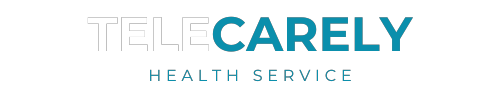
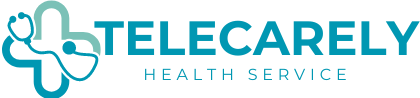
final changes

Changed region(s): [[0.0, 0.0, 1.0, 1.0], [0.2786, 0.6875, 0.8357, 0.8438]]

diff --git a/public/css/navbar.css b/public/css/navbar.css
@@ -8,7 +8,8 @@
     background-color: white;
 }
 .header-area .logo img {
-    width: 300px;
+    width: 220px;
+    margin-left: 40px;
 }
 .header-area .links {
     list-style: none;

diff --git a/public/css/login.css b/public/css/login.css
@@ -75,7 +75,6 @@ p {
 a {
     color: var(--blue);
     text-decoration: none;
-    font-weight: bold;
     transition: color 0.3s;
 }
 

diff --git a/public/css/signup.css b/public/css/signup.css
@@ -81,7 +81,6 @@ p {
 a {
     color: var(--blue);
     text-decoration: none;
-    font-weight: bold;
     transition: color 0.3s;
 }
 

diff --git a/app/Http/Controllers/PatientController.php b/app/Http/Controllers/PatientController.php
@@ -9,10 +9,9 @@ class PatientController extends Controller
 {
     function showDashboard()
     {
-        $patientCount = DB::select('SELECT COUNT(id) as patientCount FROM users WHERE role = ? ', ['patient']);
-        if (!empty($patientCount)) {
-            session([
-                'patientCount' => $patientCount[0]->patientCount
+        $doctorCounts = DB::select('SELECT COUNT(id) as doctorCount FROM users WHERE role = ? ', ['doctor']);
+        if (!empty($doctorCounts)) {
+            session(['doctorCount' => $doctorCounts[0]->doctorCount
             ]);
         }
         // select number of doctor
@@ -28,7 +27,6 @@ class PatientController extends Controller
     function showAllDoctors()
     {
         $results = DB::select('SELECT `id`,`name`, `specialty`, `email`, `phone` FROM USERS WHERE role = ?', ['doctor']);
-
         if (empty($results)) {
             return back()->with([
                 'error' => 'Doctors Not found',
@@ -37,16 +35,13 @@ class PatientController extends Controller
             return view('pages.patients.all_doctors')->with('doctors', $results);
         }
     }
-
     function showPrescription()
     {
         $results = DB::select('SELECT * FROM prescriptions WHERE patient_id = ?', [session('user')->id]);
-
         $doctorIds = [];
         foreach ($results as $result) {
             $doctorIds[] = $result->doctor_id;
         }
-
         $doctorNames = [];
         foreach ($doctorIds as $doctorId) {
             $doctor = DB::select('SELECT * FROM users WHERE id = ?', [$doctorId]);

diff --git a/app/Http/Controllers/UsersController.php b/app/Http/Controllers/UsersController.php
@@ -66,11 +66,11 @@ class UsersController extends Controller
 
         // check the validation of the data
         $request->validate([
-            'name' => 'required',
+            'name' => 'required|min:4',
             'email' => 'required|email|unique:users', // check this you didn't make it yet.....
-            'password' => 'required|confirmed',
-            'age' => 'required',
-            'phone' => 'required'
+            'password' => 'required|confirmed|min:8',
+            'age' => 'required|numeric',
+            'phone' => 'required|numeric|min:11'
         ]);
         // insert data to db -> users
         DB::insert(

diff --git a/app/Http/Controllers/DoctorController.php b/app/Http/Controllers/DoctorController.php
@@ -10,7 +10,7 @@ class DoctorController extends Controller
     function showDashboard()
     {
         // select number of patient
-        $patientCount = DB::select('SELECT COUNT(id) as patientCount FROM users WHERE role = ? ', ['patient']);
+        $patientCount = DB::select('SELECT COUNT(id) as patientCount FROM inquiries WHERE doctor_id = ? ', [session('user')->id]);
         if (!empty($patientCount)) {
             session([
                 'patientCount' => $patientCount[0]->patientCount

diff --git a/resources/views/pages/signup.blade.php b/resources/views/pages/signup.blade.php
@@ -1,5 +1,6 @@
 @extends('main-templete')
 @section('signup.css')
+    <title>Sign Up</title>
     <link rel="stylesheet" href="{{ asset('css/signup.css') }}">
 @endsection
 @section('content')
